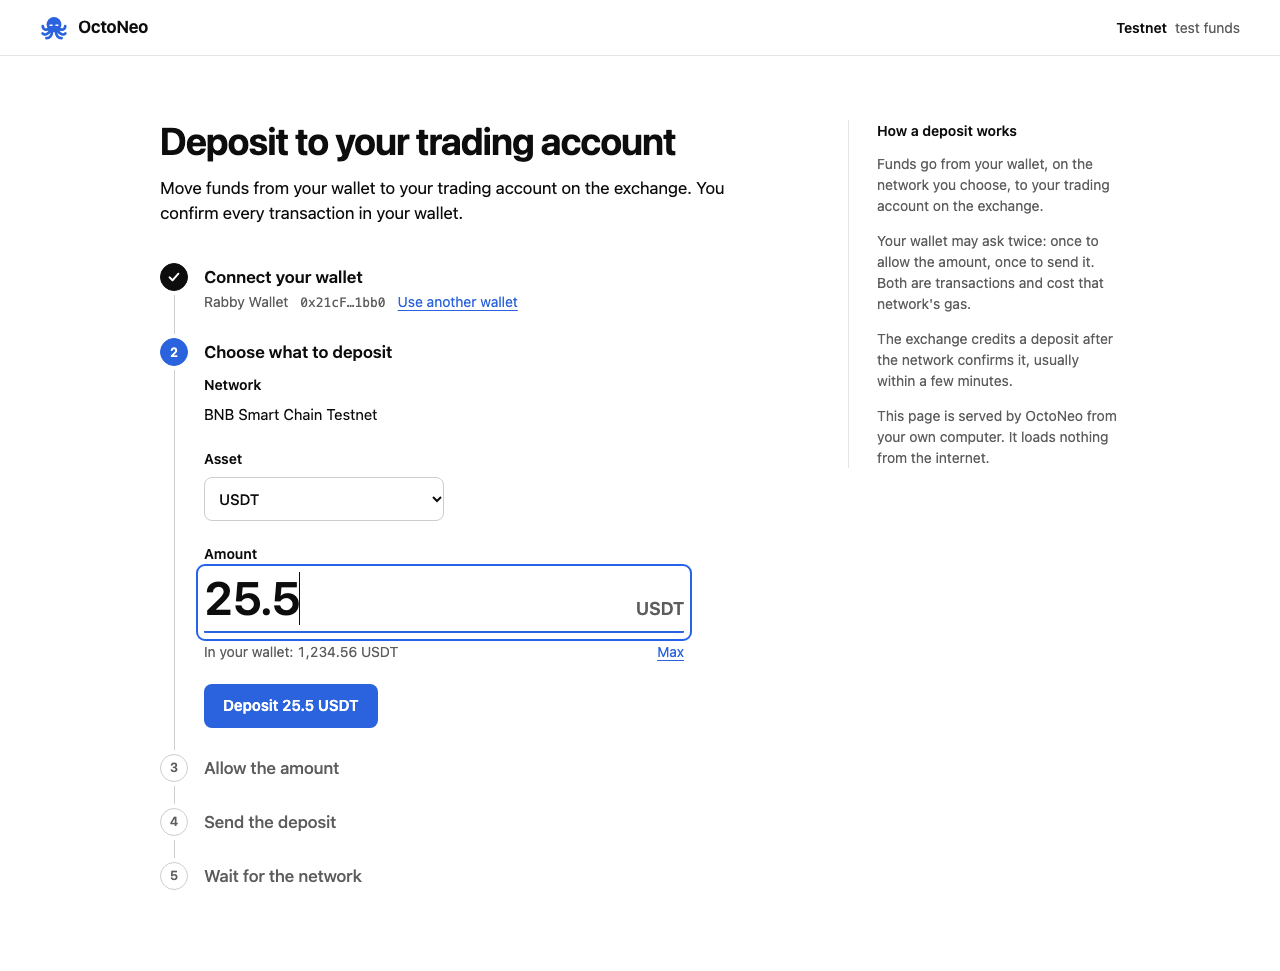
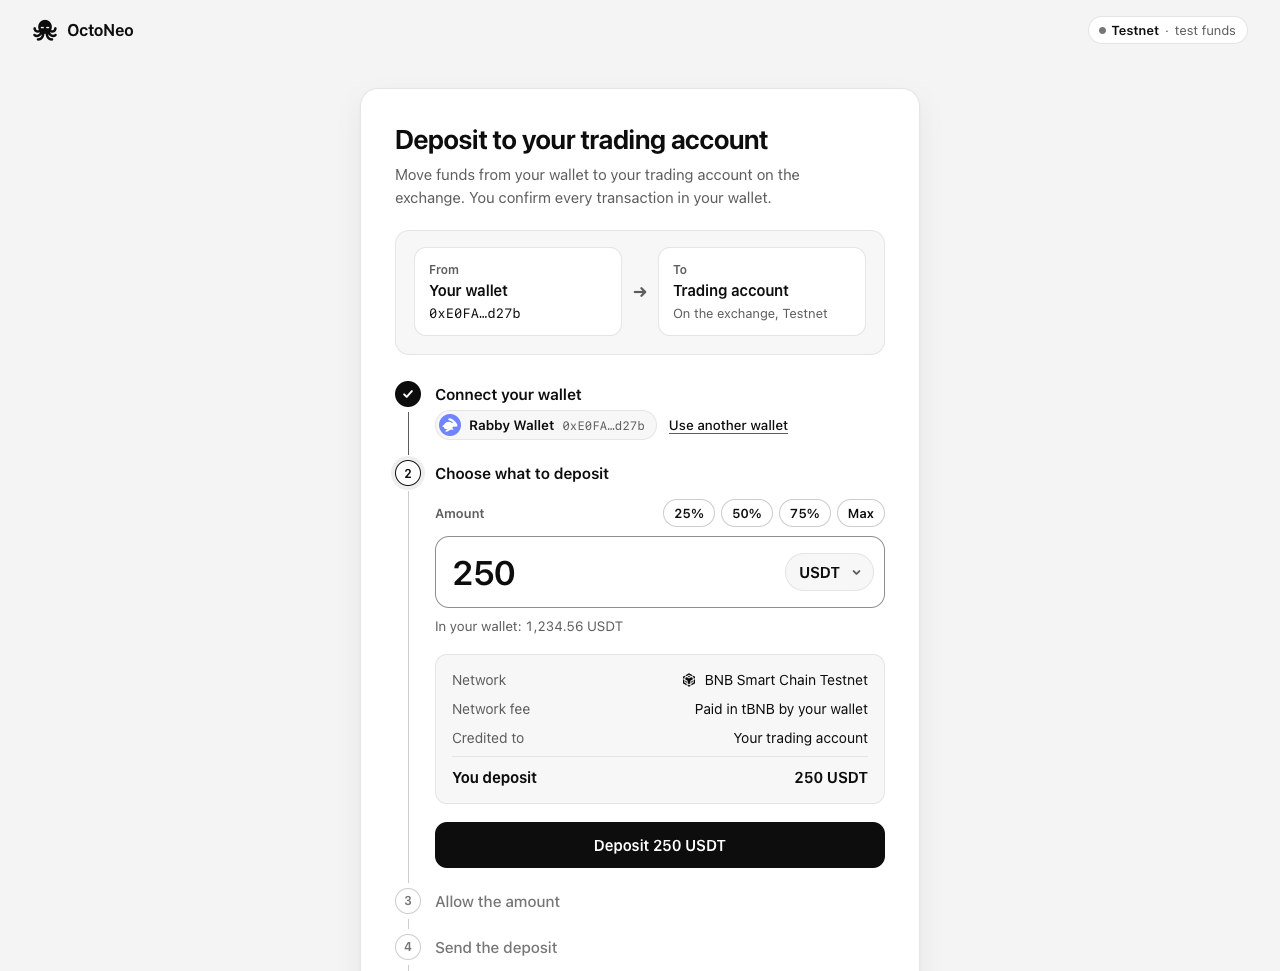
📝 docs: describe the redesigned wallet pages
- docs/exchange.md: the approval page switches the wallet to BNB Smart
  Chain before it asks for the signature, and shows what the key can and
  cannot do first; deposits and withdrawals offer 25%, 50%, 75% and Max;
  a withdrawal marks the fee and what you receive as about-figures until
  the first signature, and counts down 45 seconds for the second.
- The Settings tab is called Wallets, in the README and the docs.
- The README's deposit picture is retaken from the new page.

diff --git a/docs/exchange.md b/docs/exchange.md
@@ -95,10 +95,10 @@ A desktop app cannot talk to a wallet extension, because extensions live in the 
 
 1. The app creates a new API wallet key and keeps it in memory.
 2. It serves the approval page on `127.0.0.1`, on a random port, behind a random path, for ten minutes.
-3. The page finds the wallets in your browser; when there is more than one, you pick. It connects your wallet, asks the app for the message above, and asks your wallet to sign it with `eth_signTypedData_v4`. The message carries a fresh nonce, so confirm the wallet prompt within about ten seconds.
+3. The page finds the wallets in your browser; when there is more than one, you pick. It connects your wallet, asks it to switch to BNB Smart Chain, the network the message names, then asks the app for the message above and asks your wallet to sign it with `eth_signTypedData_v4`. The message carries a fresh nonce, so confirm the wallet prompt within about ten seconds.
 4. The app checks that the signature came from the account that connected, sends it to the exchange, and on success stores the API wallet key in the keychain. The page shuts down.
 
-What crosses that page is your wallet's address and one signature. The page loads nothing from the internet, answers only its own secret path and only the requests of its own task, and refuses requests that arrive under another host name. It shows each step and where you are in it, and counts down the seconds the exchange gives the signature.
+What crosses that page is your wallet's address and one signature. The page loads nothing from the internet, answers only its own secret path and only the requests of its own task, and refuses requests that arrive under another host name. Before you sign, it shows what the key can and cannot do and how long the approval lasts. It shows each step and where you are in it, and counts down the seconds the exchange gives the signature.
 
 To look at the page without the app, `cargo run -p octoneo-core --example wallet_page -- connect` serves it against a stand-in for the exchange.
 
@@ -115,7 +115,7 @@ You can instead create an API wallet on the exchange's API wallet page (`/en/api
 
 ## Deposits and withdrawals
 
-Funds move between your own wallet and your trading account on the exchange. Both directions start in **Settings** under *Wallet*, or on the **Account** page, and both happen on the same kind of page as the approval: served on your computer, opened in the browser where your wallet is. The code is in [`exchange/funding.rs`](../crates/octoneo-core/src/exchange/funding.rs).
+Funds move between your own wallet and your trading account on the exchange. Both directions start in **Settings** under *Wallets*, or on the **Account** page, and both happen on the same kind of page as the approval: served on your computer, opened in the browser where your wallet is. The code is in [`exchange/funding.rs`](../crates/octoneo-core/src/exchange/funding.rs).
 
 | Trading network | Funds move on |
 | --- | --- |
@@ -129,7 +129,7 @@ The page must be opened with the wallet that is connected in the app. A deposit 
 Your wallet sends the deposit; the app only builds the transactions.
 
 1. The page lists the networks and assets the exchange accepts now. Tokenised shares are left out.
-2. You choose a network, an asset and an amount. The app checks the vault it knows for that network against the one the exchange reports at that moment. If they differ, nothing is built and the page says so.
+2. You choose an amount, and the network and the asset when there is more than one. When the page can read your wallet's balance there, it shows it under the amount, with 25%, 50%, 75% and Max; for a network's own coin, Max keeps some for gas. The app checks the vault it knows for that network against the one the exchange reports at that moment. If they differ, nothing is built and the page says so.
 3. For a token, your wallet first allows the vault to take **exactly that amount**, unless an earlier allowance already covers it. A network's own coin needs no allowance.
 4. Your wallet sends `depositFor(token, your wallet, amount, 1)` to the vault. The last argument names the futures account.
 5. The page tells the app the transaction's hash, waits for the network to confirm it, and tells the app the result. The exchange credits the account a little later, usually within a few minutes.
@@ -152,7 +152,7 @@ The mainnet vaults are the ones in the exchange's API documentation. The testnet
 
 The exchange carries out a withdrawal only when your own wallet has signed it twice. The key the app holds takes no part.
 
-1. The page shows what the account may withdraw now, per asset and network, with the exchange's fee and what is left of the daily limit.
+1. The page shows what the account may withdraw now, per asset and network, with 25%, 50%, 75% and Max of it. As you type an amount, it shows the exchange's fee, what you receive and what is left of the daily limit. The fee is set when the app prepares the withdrawal, so until then the fee and what you receive are marked *about*; the exact figures appear with the first signature.
 2. **First signature: the withdrawal.** Your wallet signs typed data that names the amount, the fee, the network and the destination, which is your own wallet:
 
    ```
@@ -161,7 +161,7 @@ The exchange carries out a withdrawal only when your own wallet has signed it tw
    message  { type: "Withdraw", destination: <your wallet>, destination Chain: "BSC", token: "USDT", amount: "40", fee: "0.5", nonce: <microseconds>, … }
    ```
 
-3. **Second signature: the request.** Your wallet signs the request that carries the first signature, as `Message(string msg)` in the same domain trading requests use, with `chainId` `1666` on mainnet and `714` on testnet. This proves to the exchange that you are the one asking. The request is accepted for about a minute, so confirm this prompt promptly.
+3. **Second signature: the request.** Your wallet signs the request that carries the first signature, as `Message(string msg)` in the same domain trading requests use, with `chainId` `1666` on mainnet and `714` on testnet. This proves to the exchange that you are the one asking. The request is accepted for about a minute, so the page counts down 45 seconds for this prompt: confirm it before they run out.
 4. The app checks that both signatures came from the connected wallet, sends the request once, and records the exchange's id for it under **Activity**.
 
 If no clear answer comes back, the app does not treat that as a refusal. It tells you the withdrawal may or may not have been accepted, and to check your balance before asking again.

diff --git a/README.md b/README.md
@@ -48,7 +48,7 @@ The app checks a model before it keeps it: the key or token must be accepted, an
 
 ## Connect a wallet
 
-OctoNeo trades through an **API wallet**: a separate key that your own wallet approves for trading perpetuals. It is approved without spot trading and without withdrawal. Open **Settings**, then **Wallet**, and choose one of two ways. Each network has its own wallet.
+OctoNeo trades through an **API wallet**: a separate key that your own wallet approves for trading perpetuals. It is approved without spot trading and without withdrawal. Open **Settings**, then **Wallets**, and choose one of two ways. Each network has its own wallet.
 
 | Way | What happens | Good for |
 | --- | --- | --- |
@@ -65,14 +65,14 @@ Things to know:
 
 ## Deposit and withdraw
 
-Funds move between your own wallet and your trading account. **Deposit** and **Withdraw** are in **Settings** under *Wallet*, and on the **Account** page. Each opens a page the app serves on your computer, in the browser where your wallet is, like the approval does.
+Funds move between your own wallet and your trading account. **Deposit** and **Withdraw** are in **Settings** under *Wallets*, and on the **Account** page. Each opens a page the app serves on your computer, in the browser where your wallet is, like the approval does.
 
 | | What your wallet does | What the app does |
 | --- | --- | --- |
 | Deposit | Sends the deposit to the exchange's vault, after allowing the vault exactly that amount of the token | Builds the transactions, checks the vault with the exchange first, and records the deposit under **Activity** |
 | Withdraw | Signs the withdrawal, then the request that carries it | Checks both signatures are yours, sends the request once, and records it |
 
-![Depositing from your own wallet, on the page the app serves on your computer](docs/images/deposit-light.png)
+![Depositing from your own wallet, on the page the app serves on your computer: from your wallet to your trading account, the amount, and what happens before you confirm](docs/images/deposit-light.png)
 
 - **Where funds move.** Mainnet: BNB Smart Chain, Ethereum and Arbitrum One. Testnet: BNB Smart Chain Testnet and Sepolia.
 - **Only your own wallet.** A deposit is credited to the connected wallet, and a withdrawal is paid out to it. There is no field for another address.
